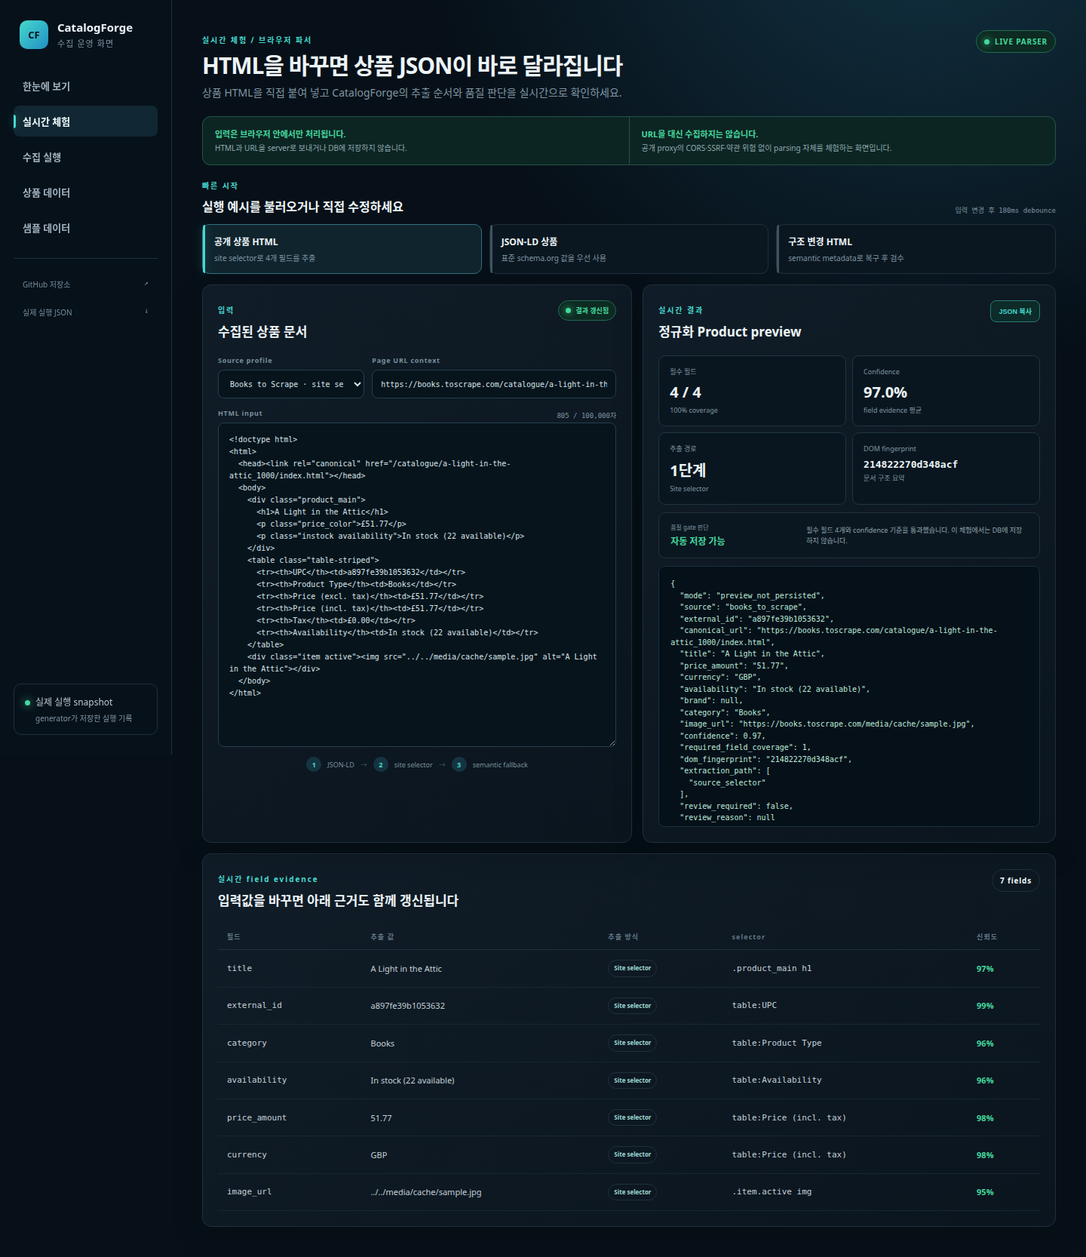
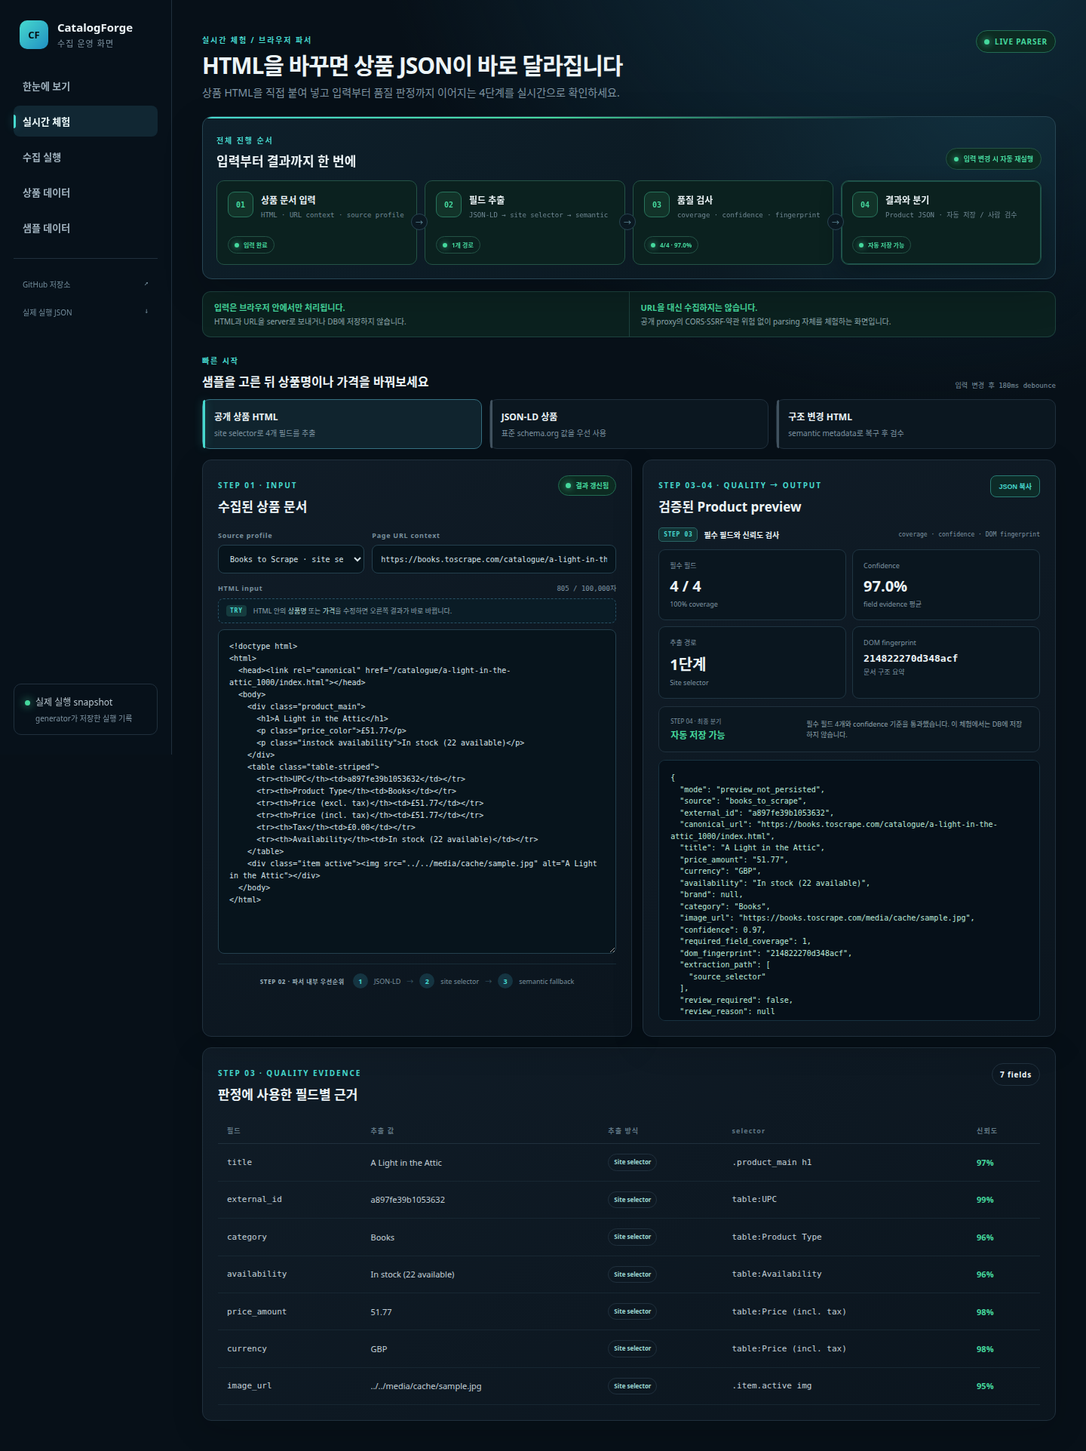
style: 데모 진행 흐름 시각화

diff --git a/web/app/globals.css b/web/app/globals.css
@@ -10,3 +10,5 @@
 html{scroll-behavior:smooth}body{-webkit-font-smoothing:antialiased;text-rendering:optimizeLegibility}::selection{background:#46d9ce35;color:#fff}a,button{transition:border-color .18s ease,background-color .18s ease,color .18s ease,transform .18s ease}a:focus-visible,button:focus-visible{outline:2px solid var(--cyan);outline-offset:3px}.sidebar nav a{position:relative;display:flex;align-items:center}.sidebar nav a:after{content:"";position:absolute;left:0;width:3px;height:18px;border-radius:0 3px 3px 0;background:transparent}.sidebar nav a.active{background:#112733;color:#eefcfc}.sidebar nav a.active:after{background:var(--cyan);box-shadow:0 0 12px #46d9ce66}.sidebar-resources{display:grid;gap:6px;margin-top:20px;padding-top:18px;border-top:1px solid var(--line)}.sidebar-resources a{display:flex;justify-content:space-between;padding:8px 12px;color:#718b99;font-size:10px}.sidebar-resources a:hover{color:var(--cyan)}.sidebar-resources span{font-family:ui-monospace,monospace}.mode.recorded{color:var(--green);border-color:#236c53;background:#0d2b22}.top-actions{display:flex;align-items:center;justify-content:flex-end;gap:8px;flex-wrap:wrap}.action-link{display:inline-flex;align-items:center;gap:8px;padding:8px 11px;border:1px solid #285064;border-radius:999px;background:#0b1d28;color:#9ec4d3;font-size:10px;font-weight:800;white-space:nowrap}.action-link:hover{border-color:#3a8594;color:var(--cyan);transform:translateY(-1px)}.action-link span{color:var(--cyan)}.demo-note a{margin-left:auto;color:var(--cyan);font-size:10px;font-weight:800;white-space:nowrap}.demo-note a:hover{color:#8af3eb}.metric,.panel,.product-card,.sample-tab,.sample-detail-head{transition:border-color .18s ease,transform .18s ease,box-shadow .18s ease}.metric:hover,.panel:hover,.product-card:hover{border-color:#2a4656}.product-card:hover{transform:translateY(-2px);box-shadow:0 18px 48px #02090d66}.run-cell{max-width:190px;overflow:hidden;text-overflow:ellipsis;white-space:nowrap}.product-facts{display:grid;gap:8px;margin:18px 0 0;padding:12px 0;border-top:1px solid var(--line);border-bottom:1px solid var(--line)}.product-facts div{display:grid;grid-template-columns:75px minmax(0,1fr);gap:8px;align-items:center}.product-facts dt{color:var(--muted);font:9px ui-monospace,monospace}.product-facts dd{min-width:0;margin:0;color:#afc1ca;font-size:10px;white-space:nowrap;overflow:hidden;text-overflow:ellipsis}.product-facts dd.auto-stored{color:var(--green);font-weight:800}.product-facts dd.needs-review{color:var(--amber);font-weight:800}.product-card footer{border-top:0;margin-top:14px}.sample-tab:focus-visible{outline-offset:2px}@media(max-width:1050px){.sidebar-resources{display:none}}@media(max-width:680px){.top-actions{justify-content:flex-start;margin-top:18px}.mode,.topbar button{margin-top:0}.demo-note a{display:block;margin:8px 0 0}.action-link{padding:7px 10px}.product-card:hover{transform:none}}@media(prefers-reduced-motion:reduce){html{scroll-behavior:auto}*,*:before,*:after{transition:none!important;animation:none!important}}
 
 .primary-action{border-color:#287b73;background:#0e302d;color:var(--cyan)}.parser-live{display:inline-flex;align-items:center;gap:7px;white-space:nowrap}.parser-live i,.parser-state i{width:7px;height:7px;border-radius:50%;background:currentColor;box-shadow:0 0 10px currentColor}.playground-notice{display:grid;grid-template-columns:1fr 1fr;gap:1px;margin:-8px 0 14px;border:1px solid #245346;border-radius:11px;overflow:hidden;background:#245346}.playground-notice>div{padding:14px 16px;background:#0c2523}.playground-notice strong,.playground-notice span{display:block}.playground-notice strong{color:var(--green);font-size:11px}.playground-notice span{margin-top:4px;color:#8fa9ae;font-size:10px;line-height:1.5}.preset-section{margin-bottom:14px}.section-inline-head{display:flex;align-items:flex-end;justify-content:space-between;gap:20px;margin-bottom:12px}.section-inline-head h2{margin:6px 0 0;font-size:16px}.section-inline-head>span{color:var(--muted);font:9px ui-monospace,monospace}.preset-grid{display:grid;grid-template-columns:repeat(3,1fr);gap:10px}.preset-button{position:relative;border:1px solid var(--line);border-radius:10px;padding:13px 15px;background:#0b1720;color:var(--text);font:inherit;text-align:left;cursor:pointer}.preset-button:before{content:"";position:absolute;inset:0 auto 0 0;width:3px;border-radius:10px 0 0 10px;background:#41525f}.preset-button:hover,.preset-button.active{border-color:#367081;background:#10242e}.preset-button.active:before{background:var(--cyan);box-shadow:0 0 12px #46d9ce66}.preset-button span,.preset-button small{display:block}.preset-button span{font-size:12px;font-weight:800}.preset-button small{margin-top:5px;color:var(--muted);font-size:10px}.playground-grid{display:grid;grid-template-columns:minmax(0,1.02fr) minmax(0,.98fr);gap:14px;align-items:stretch}.playground-input,.playground-result{min-width:0}.parser-state{display:inline-flex;align-items:center;gap:6px;border:1px solid var(--line);border-radius:999px;padding:6px 9px;color:var(--muted);font-size:9px;font-weight:800}.parser-state.ready{color:var(--green);border-color:#236c53;background:#0d2b22}.parser-state.parsing{color:var(--cyan)}.parser-state.error{color:var(--amber);border-color:#6c5323;background:#2b220d}.input-controls{display:grid;grid-template-columns:.75fr 1.25fr;gap:10px;margin-bottom:13px}.input-controls label,.html-input-label{display:block}.input-controls label>span,.html-input-label>span{display:block;margin-bottom:6px;color:#79909d;font-size:9px;font-weight:800;letter-spacing:.08em}.input-controls select,.input-controls input,.playground-input textarea{width:100%;border:1px solid #24404e;border-radius:8px;background:#07141c;color:#d8e5ea}.input-controls select,.input-controls input{height:38px;padding:0 11px;font:10px ui-monospace,monospace}.input-controls input[aria-invalid="true"]{border-color:#9a632f}.input-controls select:focus,.input-controls input:focus,.playground-input textarea:focus{border-color:var(--cyan);outline:1px solid #46d9ce55}.html-input-label{display:flex;align-items:center;justify-content:space-between}.html-input-label small{color:var(--muted);font:9px ui-monospace,monospace}.playground-input textarea{display:block;min-height:430px;resize:vertical;padding:14px;font:10px/1.6 ui-monospace,SFMono-Regular,Menlo,monospace;tab-size:2}.parser-order{display:flex;align-items:center;justify-content:center;gap:8px;margin-top:13px;color:#79909d;font-size:9px}.parser-order span{width:20px;height:20px;display:grid;place-items:center;border-radius:50%;background:#153441;color:var(--cyan);font-weight:900}.parser-order i{color:#3a5967;font-style:normal}.copy-button{border:1px solid #287b73;border-radius:8px;padding:7px 10px;background:#0d2b28;color:var(--cyan);font-size:9px;font-weight:800;cursor:pointer}.preview-metrics{display:grid;grid-template-columns:1fr 1fr;gap:8px}.preview-metrics article{min-width:0;padding:14px;border:1px solid #1f3542;border-radius:9px;background:#0a161f}.preview-metrics span,.preview-metrics small{display:block;color:var(--muted);font-size:9px}.preview-metrics strong{display:block;margin:7px 0 4px;font-size:20px}.preview-metrics strong.mono{font-size:13px;white-space:nowrap;overflow:hidden;text-overflow:ellipsis}.preview-decision{display:flex;align-items:center;justify-content:space-between;gap:18px;margin:10px 0;padding:13px 15px;border:1px solid var(--line);border-radius:9px;background:#0b1720}.preview-decision span,.preview-decision strong{display:block}.preview-decision span{color:var(--muted);font-size:8px}.preview-decision strong{margin-top:4px;color:var(--green);font-size:12px}.preview-decision p{max-width:62%;margin:0;color:#91a5af;font-size:9px;line-height:1.5}.preview-decision.review{border-color:#6c5323;background:#2b220d}.preview-decision.review strong,.preview-decision.rejected strong{color:var(--amber)}.preview-decision.rejected{border-color:#78434a;background:#2e171c}.preview-json{height:346px;margin:0;padding:15px;border:1px solid #183240;border-radius:9px;background:#061019;color:#bcebd9;overflow:auto;font:10px/1.55 ui-monospace,SFMono-Regular,Menlo,monospace;white-space:pre-wrap;overflow-wrap:anywhere}.playground-empty{min-height:526px;display:grid;align-content:center;justify-items:center;padding:30px;border:1px dashed #29404d;border-radius:10px;text-align:center}.playground-empty strong{font-size:14px}.playground-empty span{max-width:340px;margin-top:7px;color:var(--muted);font-size:10px;line-height:1.6}.playground-empty.error{border-color:#6c5323;background:#251d0d}.live-evidence{margin-top:14px}.live-evidence td strong{color:var(--green)}@media(max-width:1150px){.playground-grid{grid-template-columns:1fr}.playground-input textarea{min-height:340px}.playground-empty{min-height:360px}}@media(max-width:680px){.playground-notice,.preset-grid,.input-controls{grid-template-columns:1fr}.section-inline-head{display:block}.section-inline-head>span{display:block;margin-top:7px}.playground-input,.playground-result{padding:16px}.playground-input textarea{min-height:300px}.preview-decision{display:block}.preview-decision p{max-width:none;margin-top:9px}.preview-json{height:320px}.parser-order{flex-wrap:wrap}.playground-empty{min-height:280px}}@media(max-width:420px){.preview-metrics{grid-template-columns:1fr}.preview-json{height:280px}}
+
+.process-overview{position:relative;margin:-8px 0 16px;padding:18px;border:1px solid #274654;border-radius:13px;overflow:hidden;background:radial-gradient(circle at 92% -30%,#17455988,transparent 42%),linear-gradient(145deg,#0e1f2a,#0a171f);box-shadow:0 18px 50px #02090d38}.process-overview:before{content:"";position:absolute;inset:0 0 auto;height:2px;background:linear-gradient(90deg,var(--cyan),var(--green),transparent 82%)}.process-heading{display:flex;align-items:flex-end;justify-content:space-between;gap:20px}.process-heading h2{margin:5px 0 0;font-size:17px}.auto-run-badge{display:inline-flex;align-items:center;gap:7px;border:1px solid #245346;border-radius:999px;padding:7px 10px;background:#0d2b22;color:var(--green);font-size:9px;font-weight:800;white-space:nowrap}.auto-run-badge i,.process-state i{width:6px;height:6px;border-radius:50%;background:currentColor;box-shadow:0 0 9px currentColor}.process-track{display:grid;grid-template-columns:repeat(4,minmax(0,1fr));gap:10px;margin:14px 0 0;padding:0;list-style:none}.process-step{position:relative;display:grid;grid-template-columns:34px minmax(0,1fr);gap:10px;min-width:0;min-height:112px;padding:14px;border:1px solid #203642;border-radius:10px;background:#09161e;transition:border-color .18s ease,background-color .18s ease,box-shadow .18s ease,opacity .18s ease}.process-step:not(:last-child):after{content:"→";position:absolute;z-index:2;right:-15px;top:43px;width:20px;height:20px;display:grid;place-items:center;border:1px solid #294653;border-radius:50%;background:#0b1922;color:#5d8796;font-size:10px}.process-number{width:34px;height:34px;display:grid;place-items:center;border:1px solid #2a4653;border-radius:9px;background:#102631;color:#79a4b2;font:900 10px ui-monospace,monospace}.process-step strong,.process-step p{display:block}.process-step strong{margin:2px 0 0;font-size:12px}.process-step p{margin:5px 0 0;color:#708894;font:9px/1.45 ui-monospace,monospace;overflow-wrap:anywhere}.process-state{grid-column:1/-1;display:inline-flex;align-items:center;justify-self:start;gap:6px;margin-top:auto;border:1px solid #243b47;border-radius:999px;padding:5px 8px;color:#78919d;font-size:8px;font-weight:800}.process-step.waiting{opacity:.6}.process-step.active{border-color:#287280;background:#0d252e}.process-step.active .process-number,.process-step.current .process-number{border-color:#2a8c91;background:#12383e;color:var(--cyan)}.process-step.active .process-state{color:var(--cyan)}.process-step.complete{border-color:#245346;background:#0b211f}.process-step.complete .process-number{border-color:#28745c;background:#123329;color:var(--green)}.process-step.complete .process-state{border-color:#245346;color:var(--green)}.process-step.review{border-color:#6c5323;background:#251e10}.process-step.review .process-number,.process-step.review .process-state{border-color:#6c5323;color:var(--amber)}.process-step.issue{border-color:#78434a;background:#27171d}.process-step.issue .process-number,.process-step.issue .process-state{border-color:#78434a;color:var(--red)}.process-step.current{box-shadow:0 0 0 1px #46d9ce44 inset,0 10px 28px #02090d55}.playground-page .playground-notice{margin:0 0 18px;border-color:#1d423e;background:#1d423e}.playground-page .playground-notice>div{padding:12px 15px;background:#0b211f}.html-input-label{margin-bottom:7px}.html-input-label>span{margin-bottom:0}.edit-tip{display:flex;align-items:center;gap:9px;margin:0 0 8px;padding:8px 10px;border:1px dashed #285064;border-radius:7px;background:#0a1c26}.edit-tip>span{border-radius:4px;padding:3px 5px;background:#153b3e;color:var(--cyan);font:900 8px ui-monospace,monospace;letter-spacing:.1em}.edit-tip p{margin:0;color:#8ea6b1;font-size:9px;line-height:1.45}.edit-tip code{color:#c0e9e4;font-size:9px}.parser-order{padding-top:12px;border-top:1px solid #172c37}.parser-order strong{margin-right:3px;color:#9cb2bd;font-size:8px;letter-spacing:.08em}.result-stage-label{display:flex;align-items:center;gap:8px;margin:-4px 0 10px}.result-stage-label span{border:1px solid #2a6465;border-radius:5px;padding:4px 6px;background:#123234;color:var(--cyan);font:900 8px ui-monospace,monospace;letter-spacing:.08em}.result-stage-label strong{font-size:10px}.result-stage-label small{margin-left:auto;color:var(--muted);font:8px ui-monospace,monospace}@media(max-width:980px){.process-track{grid-template-columns:repeat(2,minmax(0,1fr))}.process-step:not(:last-child):after{display:none}}@media(max-width:680px){.process-overview{margin-top:0;padding:14px}.process-heading{display:block}.auto-run-badge{margin-top:10px}.process-track{grid-template-columns:1fr;gap:8px}.process-step{min-height:92px}.process-step:not(:last-child):after{content:"↓";display:grid;left:21px;right:auto;top:auto;bottom:-14px}.playground-page .playground-notice{margin-bottom:16px}.edit-tip{align-items:flex-start}.parser-order strong{width:100%;margin-bottom:2px;text-align:center}.result-stage-label{align-items:flex-start;flex-wrap:wrap}.result-stage-label small{width:100%;margin-left:0}}@media(max-width:420px){.process-heading h2{font-size:16px}.process-step{grid-template-columns:30px minmax(0,1fr);padding:12px}.process-number{width:30px;height:30px}.process-step p{font-size:8px}}

diff --git a/web/app/playground/page.tsx b/web/app/playground/page.tsx
@@ -85,6 +85,38 @@ export default function PlaygroundPage() {
 
   const evidence = result ? Object.entries(result.evidence) : [];
   const confidence = result?.product?.confidence ?? 0;
+  const inputIsValid = Boolean(html.trim()) && html.length <= MAX_HTML_LENGTH && !validatePreviewUrl(url);
+  const currentFlowStep = state === "parsing" ? 1 : result ? 3 : 0;
+  const flowSteps = [
+    {
+      number: "01",
+      title: "상품 문서 입력",
+      description: "HTML · URL context · source profile",
+      state: inputIsValid ? "입력 완료" : state === "error" ? "확인 필요" : "입력 대기",
+      tone: inputIsValid ? "complete" : state === "error" ? "issue" : "active",
+    },
+    {
+      number: "02",
+      title: "필드 추출",
+      description: "JSON-LD → site selector → semantic",
+      state: state === "parsing" ? "분석 중" : result ? `${result.product?.extraction_path.length || 0}개 경로` : "자동 실행",
+      tone: state === "parsing" ? "active" : result ? "complete" : "waiting",
+    },
+    {
+      number: "03",
+      title: "품질 검사",
+      description: "coverage · confidence · fingerprint",
+      state: state === "parsing" ? "재계산 대기" : result ? `${Math.round(result.required_field_coverage * 4)}/4 · ${(confidence * 100).toFixed(1)}%` : "결과 대기",
+      tone: state === "parsing" ? "waiting" : result ? (result.decision.status === "rejected" ? "issue" : "complete") : "waiting",
+    },
+    {
+      number: "04",
+      title: "결과와 분기",
+      description: "Product JSON · 자동 저장 / 사람 검수",
+      state: state === "parsing" ? "갱신 대기" : result?.decision.label || "판정 대기",
+      tone: state === "parsing" ? "waiting" : result ? (result.decision.status === "eligible" ? "complete" : result.decision.status === "review" ? "review" : "issue") : "waiting",
+    },
+  ];
 
   return (
     <div className="page playground-page">
@@ -92,10 +124,30 @@ export default function PlaygroundPage() {
         <div>
           <span className="eyebrow">실시간 체험 / 브라우저 파서</span>
           <h1>HTML을 바꾸면 상품 JSON이 바로 달라집니다</h1>
-          <p>상품 HTML을 직접 붙여 넣고 CatalogForge의 추출 순서와 품질 판단을 실시간으로 확인하세요.</p>
+          <p>상품 HTML을 직접 붙여 넣고 입력부터 품질 판정까지 이어지는 4단계를 실시간으로 확인하세요.</p>
         </div>
         <span className="mode live parser-live"><i /> LIVE PARSER</span>
       </header>
+
+      <section className="process-overview" aria-labelledby="process-title">
+        <div className="process-heading">
+          <div><span className="eyebrow">전체 진행 순서</span><h2 id="process-title">입력부터 결과까지 한 번에</h2></div>
+          <span className="auto-run-badge"><i /> 입력 변경 시 자동 재실행</span>
+        </div>
+        <ol className="process-track">
+          {flowSteps.map((step, index) => (
+            <li
+              aria-current={currentFlowStep === index ? "step" : undefined}
+              className={`process-step ${step.tone} ${currentFlowStep === index ? "current" : ""}`}
+              key={step.number}
+            >
+              <span className="process-number">{step.number}</span>
+              <div><strong>{step.title}</strong><p>{step.description}</p></div>
+              <span className="process-state"><i />{step.state}</span>
+            </li>
+          ))}
+        </ol>
+      </section>
 
       <section className="playground-notice" aria-label="실시간 체험 안내">
         <div><strong>입력은 브라우저 안에서만 처리됩니다.</strong><span>HTML과 URL을 server로 보내거나 DB에 저장하지 않습니다.</span></div>
@@ -103,7 +155,7 @@ export default function PlaygroundPage() {
       </section>
 
       <section className="preset-section" aria-labelledby="preset-title">
-        <div className="section-inline-head"><div><span className="eyebrow">빠른 시작</span><h2 id="preset-title">실행 예시를 불러오거나 직접 수정하세요</h2></div><span>입력 변경 후 180ms debounce</span></div>
+        <div className="section-inline-head"><div><span className="eyebrow">빠른 시작</span><h2 id="preset-title">샘플을 고른 뒤 상품명이나 가격을 바꿔보세요</h2></div><span>입력 변경 후 180ms debounce</span></div>
         <div className="preset-grid">
           {PLAYGROUND_PRESETS.map(preset => (
             <button
@@ -123,7 +175,7 @@ export default function PlaygroundPage() {
       <div className="playground-grid">
         <section className="panel playground-input">
           <div className="panel-head">
-            <div><span className="eyebrow">입력</span><h2>수집된 상품 문서</h2></div>
+            <div><span className="eyebrow">STEP 01 · INPUT</span><h2>수집된 상품 문서</h2></div>
             <span className={"parser-state " + state} aria-live="polite"><i />{state === "parsing" ? "분석 중" : state === "ready" ? "결과 갱신됨" : state === "error" ? "입력 확인" : "입력 대기"}</span>
           </div>
           <div className="input-controls">
@@ -142,25 +194,27 @@ export default function PlaygroundPage() {
             <span>HTML input</span>
             <small>{html.length.toLocaleString()} / {MAX_HTML_LENGTH.toLocaleString()}자</small>
           </label>
+          <div className="edit-tip"><span>TRY</span><p>HTML 안의 <code>상품명</code> 또는 <code>가격</code>을 수정하면 오른쪽 결과가 바로 바뀝니다.</p></div>
           <textarea
             id="playground-html"
             onChange={event => { setActivePreset(null); setHtml(event.target.value); }}
             spellCheck={false}
             value={html}
           />
-          <div className="parser-order"><span>1</span> JSON-LD <i>→</i><span>2</span> site selector <i>→</i><span>3</span> semantic fallback</div>
+          <div className="parser-order"><strong>STEP 02 · 파서 내부 우선순위</strong><span>1</span> JSON-LD <i>→</i><span>2</span> site selector <i>→</i><span>3</span> semantic fallback</div>
         </section>
 
         <section className="panel playground-result" aria-live="polite" aria-busy={state === "parsing"}>
           <div className="panel-head">
-            <div><span className="eyebrow">실시간 결과</span><h2>정규화 Product preview</h2></div>
+            <div><span className="eyebrow">STEP 03–04 · QUALITY → OUTPUT</span><h2>검증된 Product preview</h2></div>
             {result?.product && <button className="copy-button" onClick={copyResult} type="button">{copied ? "복사됨 ✓" : "JSON 복사"}</button>}
           </div>
 
           {error && <div className={"playground-empty " + (state === "error" ? "error" : "")}><strong>{state === "error" ? "입력을 확인해 주세요" : "HTML 입력 대기"}</strong><span>{error}</span></div>}
-          {!error && state === "parsing" && <div className="playground-empty"><strong>입력 내용을 분석하고 있습니다</strong><span>DOM fingerprint와 field evidence를 계산합니다.</span></div>}
+          {!error && state === "parsing" && !result && <div className="playground-empty"><strong>입력 내용을 분석하고 있습니다</strong><span>DOM fingerprint와 field evidence를 계산합니다.</span></div>}
           {!error && result && (
             <>
+              <div className="result-stage-label"><span>STEP 03</span><strong>필수 필드와 신뢰도 검사</strong><small>coverage · confidence · DOM fingerprint</small></div>
               <div className="preview-metrics">
                 <article><span>필수 필드</span><strong>{Math.round(result.required_field_coverage * 4)} / 4</strong><small>{(result.required_field_coverage * 100).toFixed(0)}% coverage</small></article>
                 <article><span>Confidence</span><strong>{(confidence * 100).toFixed(1)}%</strong><small>field evidence 평균</small></article>
@@ -168,7 +222,7 @@ export default function PlaygroundPage() {
                 <article><span>DOM fingerprint</span><strong className="mono">{result.dom_fingerprint}</strong><small>문서 구조 요약</small></article>
               </div>
               <div className={"preview-decision " + result.decision.status}>
-                <div><span>품질 gate 판단</span><strong>{result.decision.label}</strong></div>
+                <div><span>STEP 04 · 최종 분기</span><strong>{result.decision.label}</strong></div>
                 <p>{result.decision.reason}</p>
               </div>
               <pre className="preview-json"><code>{JSON.stringify(result.product || { warnings: result.warnings }, null, 2)}</code></pre>
@@ -179,7 +233,7 @@ export default function PlaygroundPage() {
 
       {result && evidence.length > 0 && (
         <section className="panel live-evidence">
-          <div className="panel-head"><div><span className="eyebrow">실시간 field evidence</span><h2>입력값을 바꾸면 아래 근거도 함께 갱신됩니다</h2></div><span className="run-id">{evidence.length} fields</span></div>
+          <div className="panel-head"><div><span className="eyebrow">STEP 03 · QUALITY EVIDENCE</span><h2>판정에 사용한 필드별 근거</h2></div><span className="run-id">{evidence.length} fields</span></div>
           <div className="table-wrap">
             <table>
               <thead><tr><th>필드</th><th>추출 값</th><th>추출 방식</th><th>selector</th><th>신뢰도</th></tr></thead>

diff --git a/README.md b/README.md
@@ -51,7 +51,7 @@ CatalogForge의 핵심은 “많이 긁는 크롤러”가 아니라 **실패를
 
 ## 라이브 데모에서 볼 수 있는 것
 
-- **[실시간 체험](https://zodia8393.github.io/catalog-forge/playground/):** HTML 직접 입력 → 실시간 Product JSON·coverage·confidence·field evidence
+- **[실시간 체험](https://zodia8393.github.io/catalog-forge/playground/):** 문서 입력 → 필드 추출 → 품질 검사 → 결과 분기를 한 화면에서 확인
 - **한눈에 보기:** 실제 run 3개의 성공률, 복구한 429, 유실·중복, 선택한 상품의 필수 필드
 - **수집 실행:** 실제 UUID와 생성 시각, 상태별 건수, 장애 복구 순서
 - **상품 데이터:** DB에 저장된 실제 product UUID, 값, 신뢰도, 문서 구조 지문, 검수 여부
